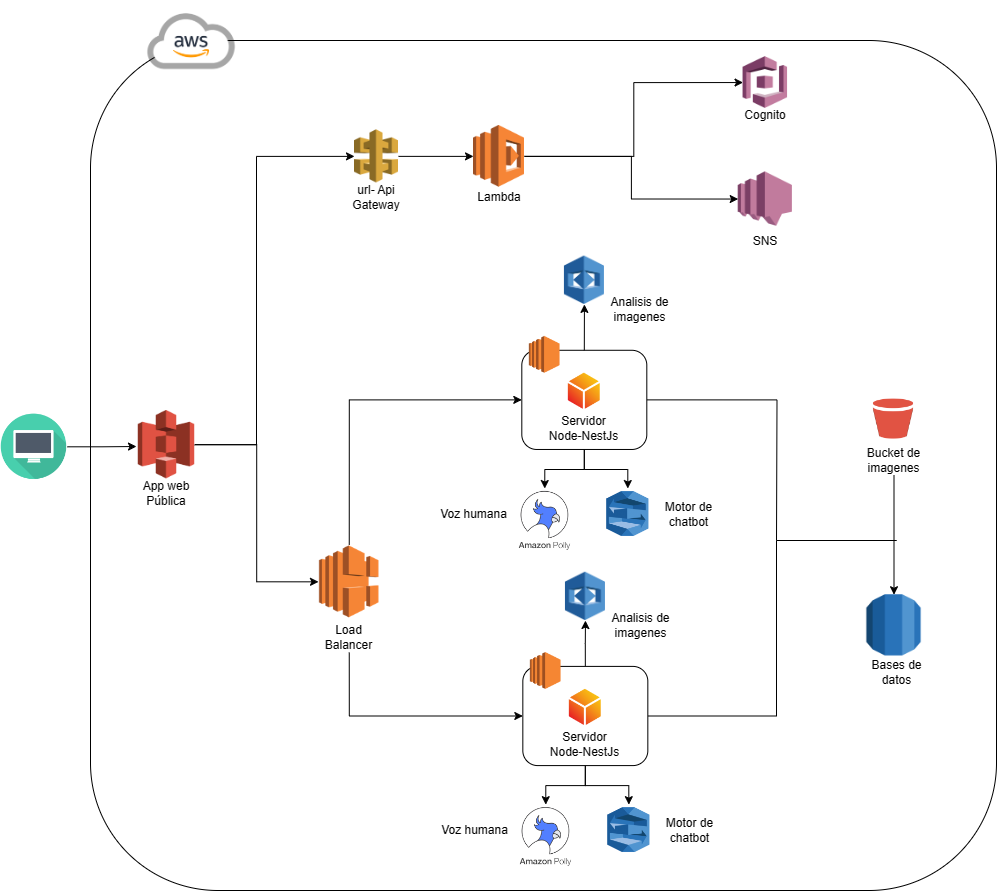
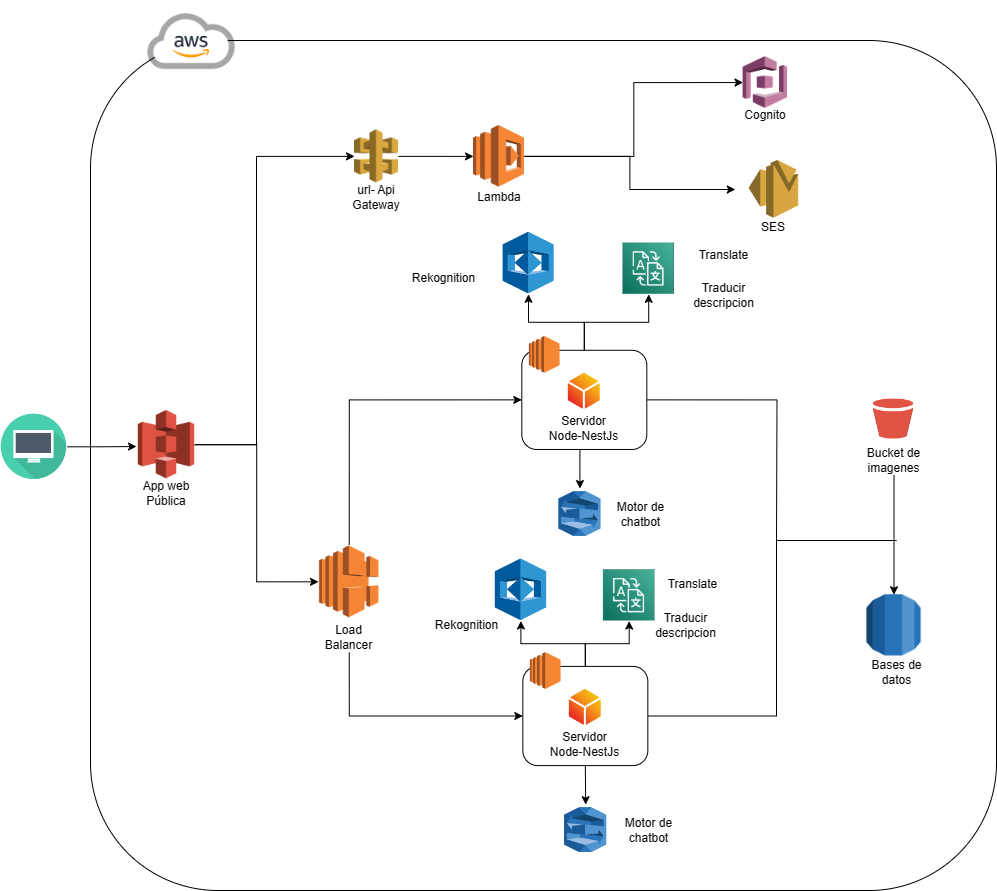
[feat]: Cambio en servicios y arquitectura

diff --git a/docs/manual_tecnico/README.md b/docs/manual_tecnico/README.md
@@ -20,24 +20,24 @@ Este proyecto se enfoca en el desarrollo de un sistema completo y robusto de ges
 
 Como primer lanzamiento, basandonos en los precios por utilización de los servicios, el proyecto como tal esta manejando un minimo de 100 usuarios activos al mes, por lo cuál:
 
-| Servicio        | Detalle                              | Precio   |
-| --------------- | ------------------------------------ | -------- |
-| AWS Cognito     | Autenticación de usuarios            | $50 USD  |
-| AWS Lambda      | Ejecución de funciones               | $20 USD  |
-| AWS API Gateway | Gestión de API                       | $30 USD  |
-| AWS Lex         | Procesamiento de lenguaje natural    | $50 USD  |
-| AWS Rekognition | Análisis de imágenes                 | $30 USD  |
-| AWS Polly       | Síntesis de voz                      | $20 USD  |
-| AWS EC2         | Instancias de servidor               | $100 USD |
-| AWS S3          | Almacenamiento de objetos            | $40 USD  |
-| AWS RDS         | Servicio de base de datos relacional | $80 USD  |
-| AWS SNS         | Servicio de notificaciones           | $10 USD  |
+| Servicio        | Detalle                                 | Precio   |
+| --------------- | --------------------------------------- | -------- |
+| AWS Cognito     | Autenticación de usuarios               | $50 USD  |
+| AWS Lambda      | Ejecución de funciones                  | $20 USD  |
+| AWS API Gateway | Gestión de API                          | $30 USD  |
+| AWS Lex         | Procesamiento de lenguaje natural       | $50 USD  |
+| AWS Rekognition | Análisis de imágenes                    | $30 USD  |
+| AWS Translate   | Traducción de texto                     | $40 USD  |
+| AWS EC2         | Instancias de servidor                  | $100 USD |
+| AWS S3          | Almacenamiento de objetos               | $40 USD  |
+| AWS RDS         | Servicio de base de datos relacional    | $80 USD  |
+| AWS SES         | Servicio de envío de correo electrónico | $10 USD  |
 
 Por lo tanto, el presupuesto mensual para Kehuel Airlines proyectado para 100 usuarios activos al mes es:
 
 | Detalle                               | Total        |
 | ------------------------------------- | ------------ |
-| **Por usuarios activos mensualmente** | **$430 USD** |
+| **Por usuarios activos mensualmente** | **$450 USD** |
 
 > [!NOTE]
 > El precio estimado varía dependiendo la cantidad de usuarios y el alcance que el proyecto tendra. Todos los precios por utilizacion de cada servicio, han sido extraidos de la pagina oficil de Amazon Web Services. [AWS](https://aws.amazon.com/es/pricing/?nc2=h_ql_pr_ln&aws-products-pricing.sort-by=item.additionalFields.productNameLowercase&aws-products-pricing.sort-order=asc&awsf.Free%20Tier%20Type=*all&awsf.tech-category=*all)
@@ -54,12 +54,12 @@ Por lo tanto, el presupuesto mensual para Kehuel Airlines proyectado para 100 us
 
 - **AWS Rekognition:** Es un servicio de análisis de imágenes y vídeos basado en inteligencia artificial que puede identificar objetos, personas, texto, escenas y actividades en imágenes y vídeos. Se utiliza para análisis de contenido multimedia, reconocimiento facial, análisis de contenido inapropiado, entre otros.
 
-- **AWS Polly:** Es un servicio que convierte texto en voz realista utilizando tecnología de síntesis de habla avanzada. Permite crear aplicaciones que pueden hablar con voces naturales en varios idiomas y géneros.
+- **AWS SES:** Amazon Simple Email Service (SES) es un servicio de correo electrónico escalable y rentable para enviar y recibir mensajes de correo electrónico. Proporciona una infraestructura robusta para el envío seguro de correos electrónicos, incluida la autenticación de remitentes, la gestión de listas de correo y la monitorización de la actividad de envío.
+
+- **AWS Translate:** Amazon Translate es un servicio de traducción automática neural que permite traducir texto de forma rápida y precisa entre idiomas. Utiliza modelos de aprendizaje automático avanzados para mejorar la calidad de las traducciones y admitir una amplia variedad de idiomas y pares de idiomas.
 
 - **AWS EC2:** Es un servicio de computación en la nube que proporciona capacidad informática escalable en la nube. Permite ejecutar aplicaciones en servidores virtuales, conocidos como instancias EC2, y escalar la capacidad de computación según sea necesario.
 
 - **AWS S3:** Es un servicio de almacenamiento en la nube altamente escalable y duradero. Permite almacenar y recuperar datos de forma segura desde cualquier lugar y en cualquier momento a través de internet.
 
 - **AWS RDS:** Es un servicio de base de datos relacional gestionado que facilita la configuración, operación y escalado de bases de datos relacionales en la nube. Admite varios motores de bases de datos, como MySQL, PostgreSQL, Oracle y SQL Server.
-
-- **AWS SNS:** Es un servicio de mensajería completamente administrado que permite enviar mensajes desde aplicaciones distribuidas a través de varios canales, como SMS, correo electrónico, HTTP/S y más. Se utiliza para la entrega de notificaciones, alertas y mensajes a los usuarios finales.
